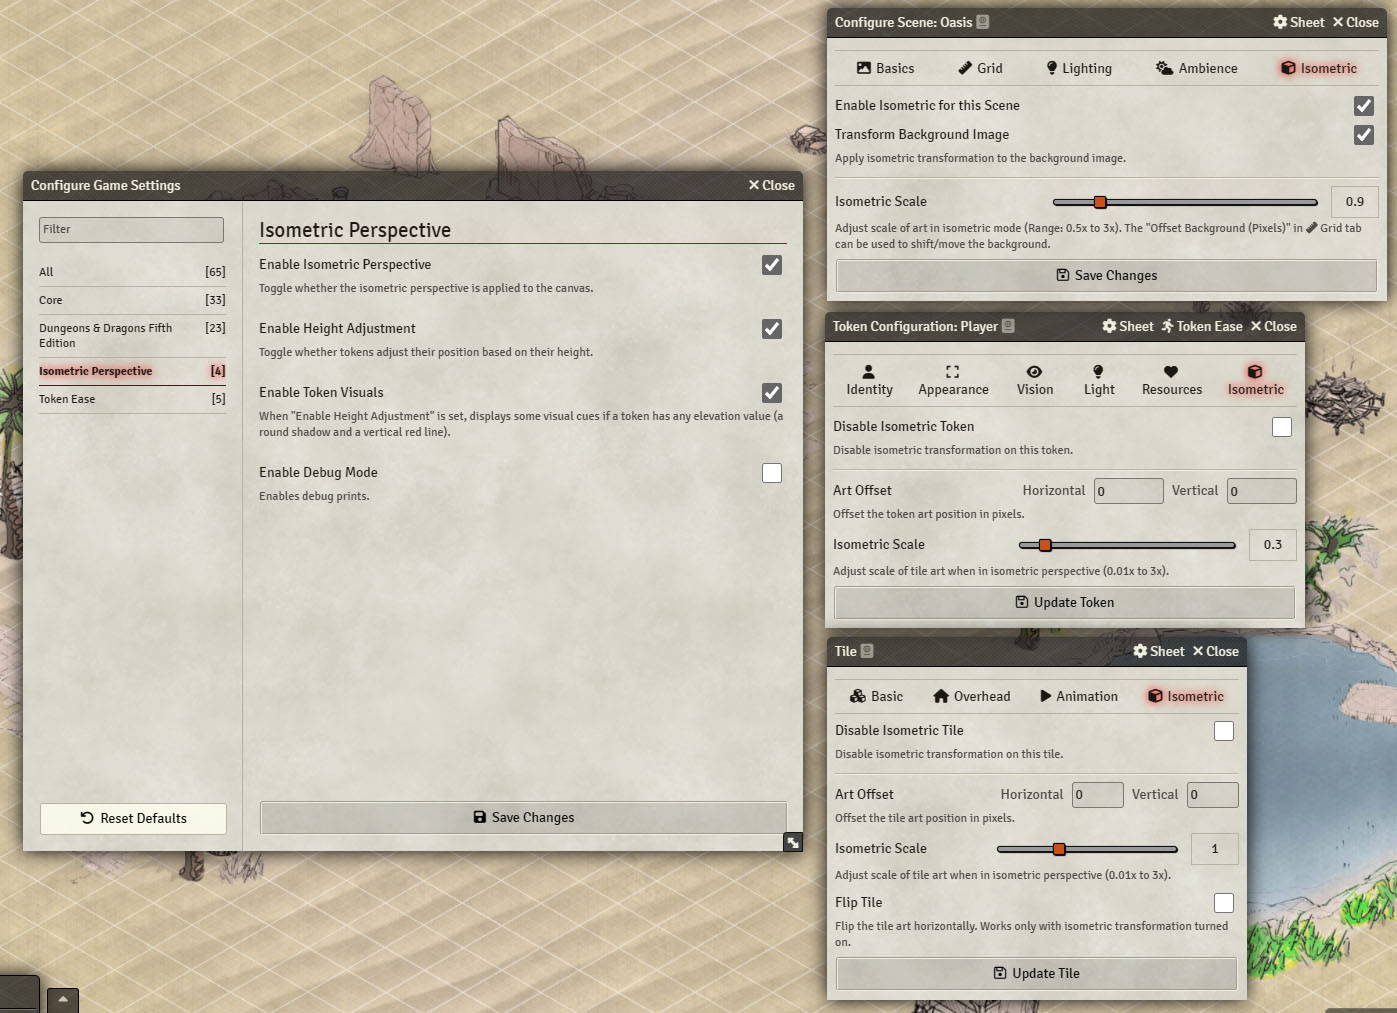
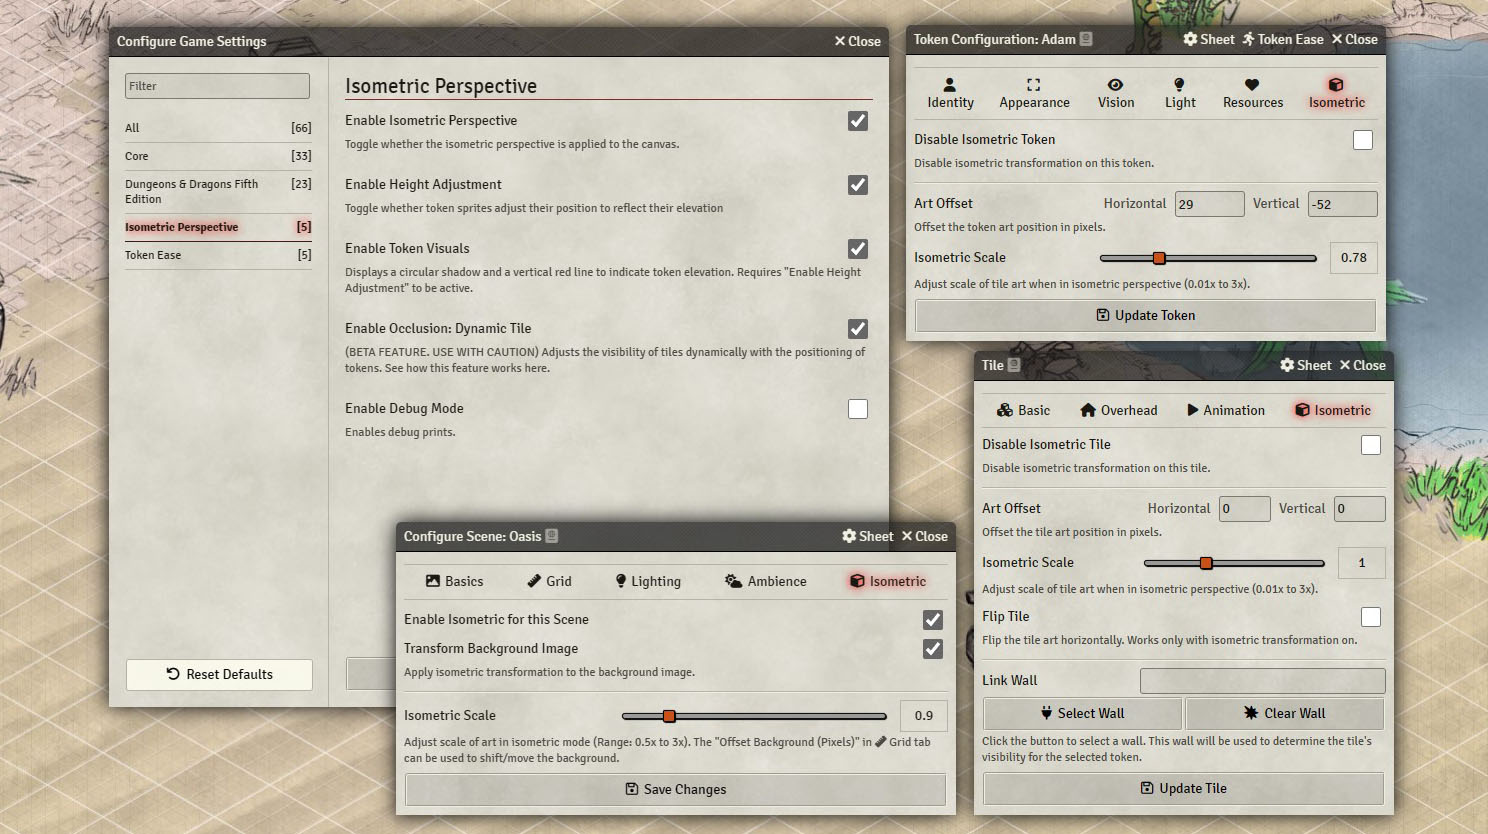
Release v0.4.1

diff --git a/scripts/dynamictile.js b/scripts/dynamictile.js
@@ -3,16 +3,9 @@ import { MODULE_ID } from './main.js';
 export function registerDynamicTileConfig() {
   const isometricWorldEnabled = game.settings.get(MODULE_ID, "worldIsometricFlag");
   const enableOcclusionDynamicTile = game.settings.get(MODULE_ID, "enableOcclusionDynamicTile");
-  if (!isometricWorldEnabled || !enableOcclusionDynamicTile) return;
-
-
-
-
   //const isometricEnabled = game.settings.get(MODULE_ID, "isometricEnabled");
+  if (!isometricWorldEnabled || !enableOcclusionDynamicTile) return;
   //if (!isometricWorldEnabled || !enableOcclusionDynamicTile || !isometricEnabled) return;
-
-
-
 
   // ---------------------- CANVAS ----------------------
   Hooks.on('canvasInit', () => {
@@ -58,6 +51,14 @@ export function registerDynamicTileConfig() {
   });
   Hooks.on('canvasReady', () => {
     updateAlwaysVisibleElements();
+  });
+  Hooks.on('canvasTokensRefresh', () => {
+    updateAlwaysVisibleElements();
+  });
+  Hooks.on('updateUser', (user, changes) => {
+    if (user.id === game.user.id && 'character' in changes) {
+      updateAlwaysVisibleElements();
+    }
   });
 
 
@@ -124,6 +125,27 @@ export function registerDynamicTileConfig() {
       updateAlwaysVisibleElements();
     }
   });
+
+  // Additional buttons for the tile layer
+  Hooks.on("getSceneControlButtons", (controls) => {
+    const newButtons = controls.find(b => b.name === "tiles"); // "token, measure, tiles, drawings, walls, lightning"
+  
+    newButtons.tools.push({
+      name: 'dynamic-tile-increase',
+      title: 'Increase Dynamic Tile Opacity',
+      icon: 'fa-solid fa-layer-group',
+      active: true,
+      onClick: () => increaseTilesOpacity(),
+      button: true
+    },{
+      name: 'dynamic-tile-decrease',
+      title: 'Decrease Dynamic Tile Opacity',
+      icon: 'fa-duotone fa-solid fa-layer-group',
+      active: true,
+      onClick: () => decreaseTilesOpacity(),
+      button: true
+    });
+  });
 }
 
 
@@ -132,8 +154,62 @@ export function registerDynamicTileConfig() {
 let alwaysVisibleContainer;
 let tilesLayer;
 let tokensLayer;
+let tilesOpacity = 1.0;
+let tokensOpacity = 1.0;
 let selectedWallId = null;
 let lastControlledToken = null;
+
+
+function updateLayerOpacity(layer, opacity) {
+  if (!layer) return;
+  layer.children.forEach(sprite => {
+      sprite.alpha = opacity;
+  });
+}
+
+export function updateTilesOpacity(value) {
+  tilesOpacity = Math.max(0, Math.min(1, value));
+  if (tilesLayer) {
+    updateLayerOpacity(tilesLayer, tilesOpacity);
+  }
+}
+
+export function increaseTilesOpacity() {
+  updateTilesOpacity(tilesOpacity + 0.5);
+}
+
+export function decreaseTilesOpacity() {
+  updateTilesOpacity(tilesOpacity - 0.5);
+}
+
+export function resetOpacity() {
+  tilesOpacity = 1.0;
+  updateTilesOpacity(tilesOpacity);
+
+  //tokensOpacity = 1.0;
+  //updateTokensOpacity(tokensOpacity);
+}
+
+/*
+export function updateTokensOpacity(value) {
+  tokensOpacity = Math.max(0, Math.min(1, value));
+  if (tokensLayer) {
+      updateLayerOpacity(tokensLayer, tokensOpacity);
+  }
+}
+
+export function increaseTokensOpacity() {
+  updateTokensOpacity(tokensOpacity + 0.1);
+}
+
+export function decreaseTokensOpacity() {
+  updateTokensOpacity(tokensOpacity - 0.1);
+}
+*/
+
+
+
+
 
 function cloneTileSprite(tile) {
   const sprite = new PIXI.Sprite(tile.texture);
@@ -141,7 +217,7 @@ function cloneTileSprite(tile) {
   sprite.anchor.set(tile.anchor.x, tile.anchor.y);
   sprite.angle = tile.angle;
   sprite.scale.set(tile.scale.x, tile.scale.y);
-  sprite.alpha = tile.alpha;
+  sprite.alpha = tile.alpha * tilesOpacity;
   sprite.eventMode = 'passive';
   sprite.originalTile = tile;
   return sprite;
@@ -153,10 +229,34 @@ function cloneTokenSprite(token) {
   sprite.anchor.set(token.anchor.x, token.anchor.y);
   sprite.angle = token.angle;
   sprite.scale.set(token.scale.x, token.scale.y);
-  sprite.alpha = token.alpha;
+  sprite.alpha = token.alpha * tokensOpacity;
   sprite.eventMode = 'passive';
   sprite.originalToken = token;
   return sprite;
+}
+
+// Função para encontrar o token inicial na inicialização
+function getInitialToken() {
+  // Primeiro, tenta pegar o token controlado
+  const controlled = canvas.tokens.controlled[0];
+  if (controlled) return controlled;
+
+  // Se não houver token controlado, tenta usar o último token conhecido
+  if (lastControlledToken) return lastControlledToken;
+
+  // Se não houver último token conhecido, tenta pegar o token do personagem do usuário
+  const actor = game.user.character;
+  if (actor) {
+      const userToken = canvas.tokens.placeables.find(t => t.actor?.id === actor.id);
+      if (userToken) return userToken;
+  }
+
+  // Se ainda não encontrou, pega o primeiro token que o usuário possui permissão
+  const availableToken = canvas.tokens.placeables.find(t => t.observer);
+  if (availableToken) return availableToken;
+
+  // Se tudo falhar, retorna null
+  return null;
 }
 
 function updateAlwaysVisibleElements() {
@@ -167,7 +267,7 @@ function updateAlwaysVisibleElements() {
   tokensLayer.removeChildren();
 
   // Obtém o token selecionado
-  const controlled = canvas.tokens.controlled[0] || lastControlledToken;
+  const controlled = getInitialToken();
   if (!controlled) return;
 
   // Coleta tiles com paredes vinculadas
@@ -219,6 +319,9 @@ function updateAlwaysVisibleElements() {
       tokensLayer.addChild(tokenSprite);
     }
   });
+
+  updateLayerOpacity(tilesLayer, tilesOpacity);
+  //updateLayerOpacity(tokensLayer, tokensOpacity);
 
   // Habilita o zIndex para a camada de tokens
   tokensLayer.sortableChildren = true;
@@ -323,13 +426,15 @@ function isTokenInFrontOfWall(token, wall) {
   const { x: tokenX, y: tokenY } = token.center;
 
   // Verifica se a parede é horizontal (ângulo próximo a 0°)
+  // Token está em frente se estiver abaixo da linha horizontal
   if (Math.abs(y1 - y2) < 0.001) {
-    return tokenY > y1; // Token está em frente se estiver abaixo da linha horizontal
+    return tokenY > y1;
   }
 
   // Verifica se a parede é vertical (ângulo próximo a 90°)
+  // Token está em frente se estiver à esquerda da linha vertical
   if (Math.abs(x1 - x2) < 0.001) {
-    return tokenX < x1; // Token está em frente se estiver à esquerda da linha vertical
+    return tokenX < x1;
   }
 
   // Calcula o ângulo da parede com a horizontal

diff --git a/scripts/main.js b/scripts/main.js
@@ -3,7 +3,7 @@ import { registerTokenConfig } from './token.js';
 import { registerTileConfig } from './tile.js';
 import { registerHUDConfig } from './hud.js';
 import { registerOcclusionConfig } from './occlusion.js';
-import { registerDynamicTileConfig } from './dynamictile.js';
+import { registerDynamicTileConfig, increaseTilesOpacity, decreaseTilesOpacity } from './dynamictile.js';
 //import { TokenEffectModule } from './occlusion.js';
 import { applyIsometricPerspective, applyBackgroundTransformation } from './transform.js';
 
@@ -12,7 +12,9 @@ export { MODULE_ID };
 
 // Hook para registrar a configuração do módulo no Foundry VTT
 Hooks.once("init", function() {
-  // Configuração do checkbox para habilitar ou desabilitar o modo isométrico globalmente
+  
+  // ------------- Registra as configurações do módulo ------------- 
+  
   game.settings.register(MODULE_ID, "worldIsometricFlag", {
     name: "Enable Isometric Perspective",
     hint: "Toggle whether the isometric perspective is applied to the canvas.",
@@ -46,7 +48,7 @@ Hooks.once("init", function() {
 
   game.settings.register(MODULE_ID, 'enableOcclusionDynamicTile', {
     name: 'Enable Occlusion: Dynamic Tile',
-    hint: ' (THIS FEATURE IS IN WORKING PROGRESS AND WASN\'T TESTED. USE WITH CAUTION) Adjusts the visibility of tiles dynamically with the positioning of tokens. See how this feature works here.',
+    hint: '(BETA FEATURE. USE WITH CAUTION) Adjusts the visibility of tiles dynamically with the positioning of tokens. See how this feature works here.',
     scope: 'world',
     config: true,
     default: false,
@@ -77,15 +79,59 @@ Hooks.once("init", function() {
     //onChange: settings => window.location.reload()
   });
 
-  //TokenEffectModule.initialize();
 
-  // Registra as configurações do módulo
+
+
+
+
+
+
+
+  // ------------- Registra os atalhos do módulo ------------- 
+  
+  game.keybindings.register(MODULE_ID, 'increaseTilesOpacity', {
+    name: 'Increase Tiles Opacity',
+    hint: 'Increases the opacity of always visible tiles',
+    editable: [
+        { key: 'NumpadAdd', modifiers: ['Control'] }
+    ],
+    onDown: () => {
+        increaseTilesOpacity();
+    },
+    restricted: false,
+    reservedModifiers: [],
+    precedence: CONST.KEYBINDING_PRECEDENCE.NORMAL
+  });
+
+  game.keybindings.register(MODULE_ID, 'decreaseTilesOpacity', {
+    name: 'Decrease Tiles Opacity',
+    hint: 'Decreases the opacity of always visible tiles',
+    editable: [
+        { key: 'NumpadSubtract', modifiers: ['Control'] }
+    ],
+    onDown: () => {
+        decreaseTilesOpacity();
+    },
+    restricted: false,
+    reservedModifiers: [],
+    precedence: CONST.KEYBINDING_PRECEDENCE.NORMAL
+  });
+
+  
+
+
+
+
+  // ------------- Executa os hooks essenciais do módulo -------------
   registerSceneConfig();
   registerTokenConfig();
   registerTileConfig();
   registerHUDConfig();
-  //registerOcclusionConfig();
+
+  // ------------- Executa os hooks de funcionalidades adicionais do módulo -------------
   registerDynamicTileConfig();
+  //registerOcclusionConfig();
+
 });
 
 
@@ -175,23 +221,10 @@ Hooks.on("getSceneControlButtons", (controls) => {
 */
 
 
-Hooks.on("getSceneControlButtons", (controls) => {
-  const newButtons = controls.find(b => b.name === "tiles"); // "token, measure, tiles, drawings, walls, lightning"
 
-  newButtons.tools.push({
-    name: 'select-templates',
-    title: 'Toggle 2',
-    icon: 'fa-duotone fa-solid fa-layer-group',
-    toggle: true,
-    active: true,
-    onClick: (toggle) => {
-      if (toggle) {
-        console.log("sim");
-      } else {
-        console.log("não");
-      }
-    }
-  },
+
+/*
+,
   {
     name: "dtaligntool", // just some identifier
     title: "coisina",  // more like the label shown in the tooltip
@@ -227,6 +260,5 @@ Hooks.on("getSceneControlButtons", (controls) => {
       }
     },
     button: true
-  });
-});
-
+  }
+*/

diff --git a/README.md b/README.md
@@ -40,6 +40,8 @@ Here are some of the features the module offers.
 
 ![](https://raw.githubusercontent.com/arlosmolten/isometric-perspective/refs/heads/main/files/showcase-1.jpg)
 ![](https://raw.githubusercontent.com/arlosmolten/isometric-perspective/refs/heads/main/files/showcase-2.jpg)
+![](https://raw.githubusercontent.com/arlosmolten/isometric-perspective/refs/heads/main/files/dynamictile.jpg)
+*Dynamic Tile previews.*
 ![](https://raw.githubusercontent.com/arlosmolten/isometric-perspective/refs/heads/main/files/elevation.jpg)
 *Elevation previews.*
 
@@ -68,6 +70,7 @@ Rideable _(if both mount and rider tokens have the same size, isn't possible to 
 
 - **Not working**  
 Image Hover _(render the art, but it moves with the pan of the canvas. You can only see it if you use hotkeys, and will not show the entire art)_
+LockerView _(needs a 330° rotation to make a working isometric rotation)_
 
 ## Known Bugs
 
